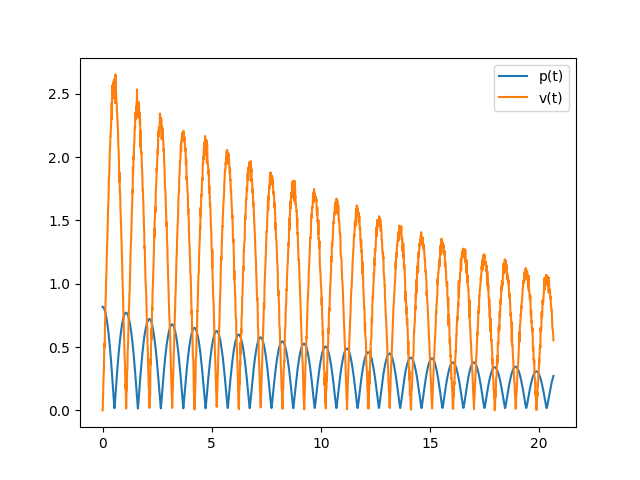
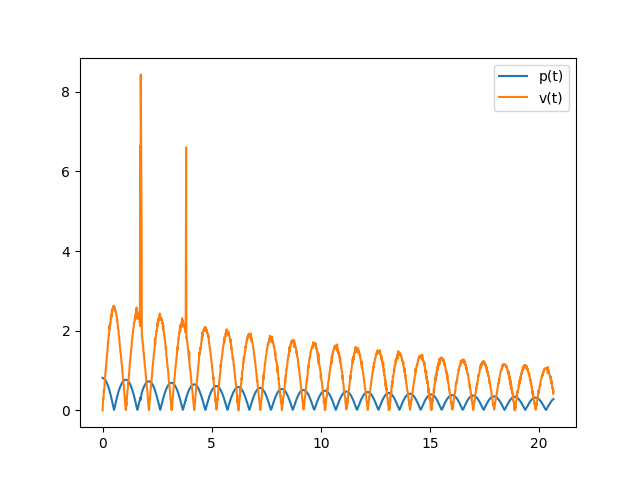
Find numeric position and speed

diff --git a/speed.py b/speed.py
@@ -1,6 +1,8 @@
 import numpy as np
 import matplotlib.pyplot as plt
 
+from fys import euler
+
 
 def calculate_speed(tracker_data):
     time_list = []
@@ -56,3 +58,22 @@ def plot_speed(speed_dict):
     plt.ylabel("fart v m/s")
     plt.savefig("time_speed.png")
     plt.show()
+
+    return speed
+
+
+def position_speed_numeric(x_start, y_start, poly: np.array, v_start=0, n=20000):
+    xn, vn = x_start, v_start
+    x_prev, y_prev = x_start, v_start
+    dt = 20 / n
+    speeds = [x_start]
+    positions = []
+    ts = [ni/n for ni in range(n)]
+    for i in range(n):
+        xn, vn, acc, alpha, r, y = euler(xn, vn, poly, dt=dt)
+        positions.append(np.sqrt(
+                (x_prev - xn) ** dt + (y_prev - y) ** 2
+            ))
+        speeds.append(vn)
+
+    return positions, speeds, ts

diff --git a/lab.py b/lab.py
@@ -1,7 +1,7 @@
 from forces import force_friction, force_normal
 from fys import potential
 from util import get_data, extract_maxvalues, curvefit, save_data
-from speed import calculate_speed, plot_speed
+from speed import calculate_speed, position_speed_numeric, plot_speed
 
 if __name__ == "__main__":
     print("whoop \n\n")
@@ -22,8 +22,11 @@ if __name__ == "__main__":
         polynomial = data[filename][1]
         maxvalues = extract_maxvalues(tracker_data)
         x_start = maxvalues[0][0]
+        y_start = maxvalues[0][1]
 
         if SPEED:
+            positions, speeds_num, ts = position_speed_numeric(x_start, y_start, polynomial)
+
             speed_dict = calculate_speed(tracker_data)
             plot_speed(speed_dict)
             exit()

diff --git a/forces.py b/forces.py
@@ -13,7 +13,7 @@ def force_normal(x_start, poly: np.array, v_start=0, n=20000):
     fns = []
     xs = []
     for i in range(n):
-        xn, vn, acc, alpha, r = euler(xn, vn, poly, dt=dt)
+        xn, vn, acc, alpha, r, y = euler(xn, vn, poly, dt=dt)
         fns.append(force(alpha, vn, r))
         xs.append(xn)
 
@@ -41,7 +41,7 @@ def force_friction(x_start, poly: np.array, v_start=0, n=20000):
     ffs = []
     xs = []
     for i in range(n):
-        xn, vn, acc, alpha, r = euler(xn, vn, poly, dt=dt)
+        xn, vn, acc, alpha, r, y = euler(xn, vn, poly, dt=dt)
         ffs.append(force(acc))
         xs.append(xn)
 

diff --git a/fys.py b/fys.py
@@ -7,7 +7,7 @@ def euler(x, v, poly, dt):
     acc = v_prime(v, alpha)
     vn = v + dt * acc
     xn = x + dt * v * np.cos(alpha)
-    return xn, vn, acc, alpha, r
+    return xn, vn, acc, alpha, r, y
 
 
 def v_prime(v, alpha, c=0.0041, m=0.0302, g=9.8214675):
